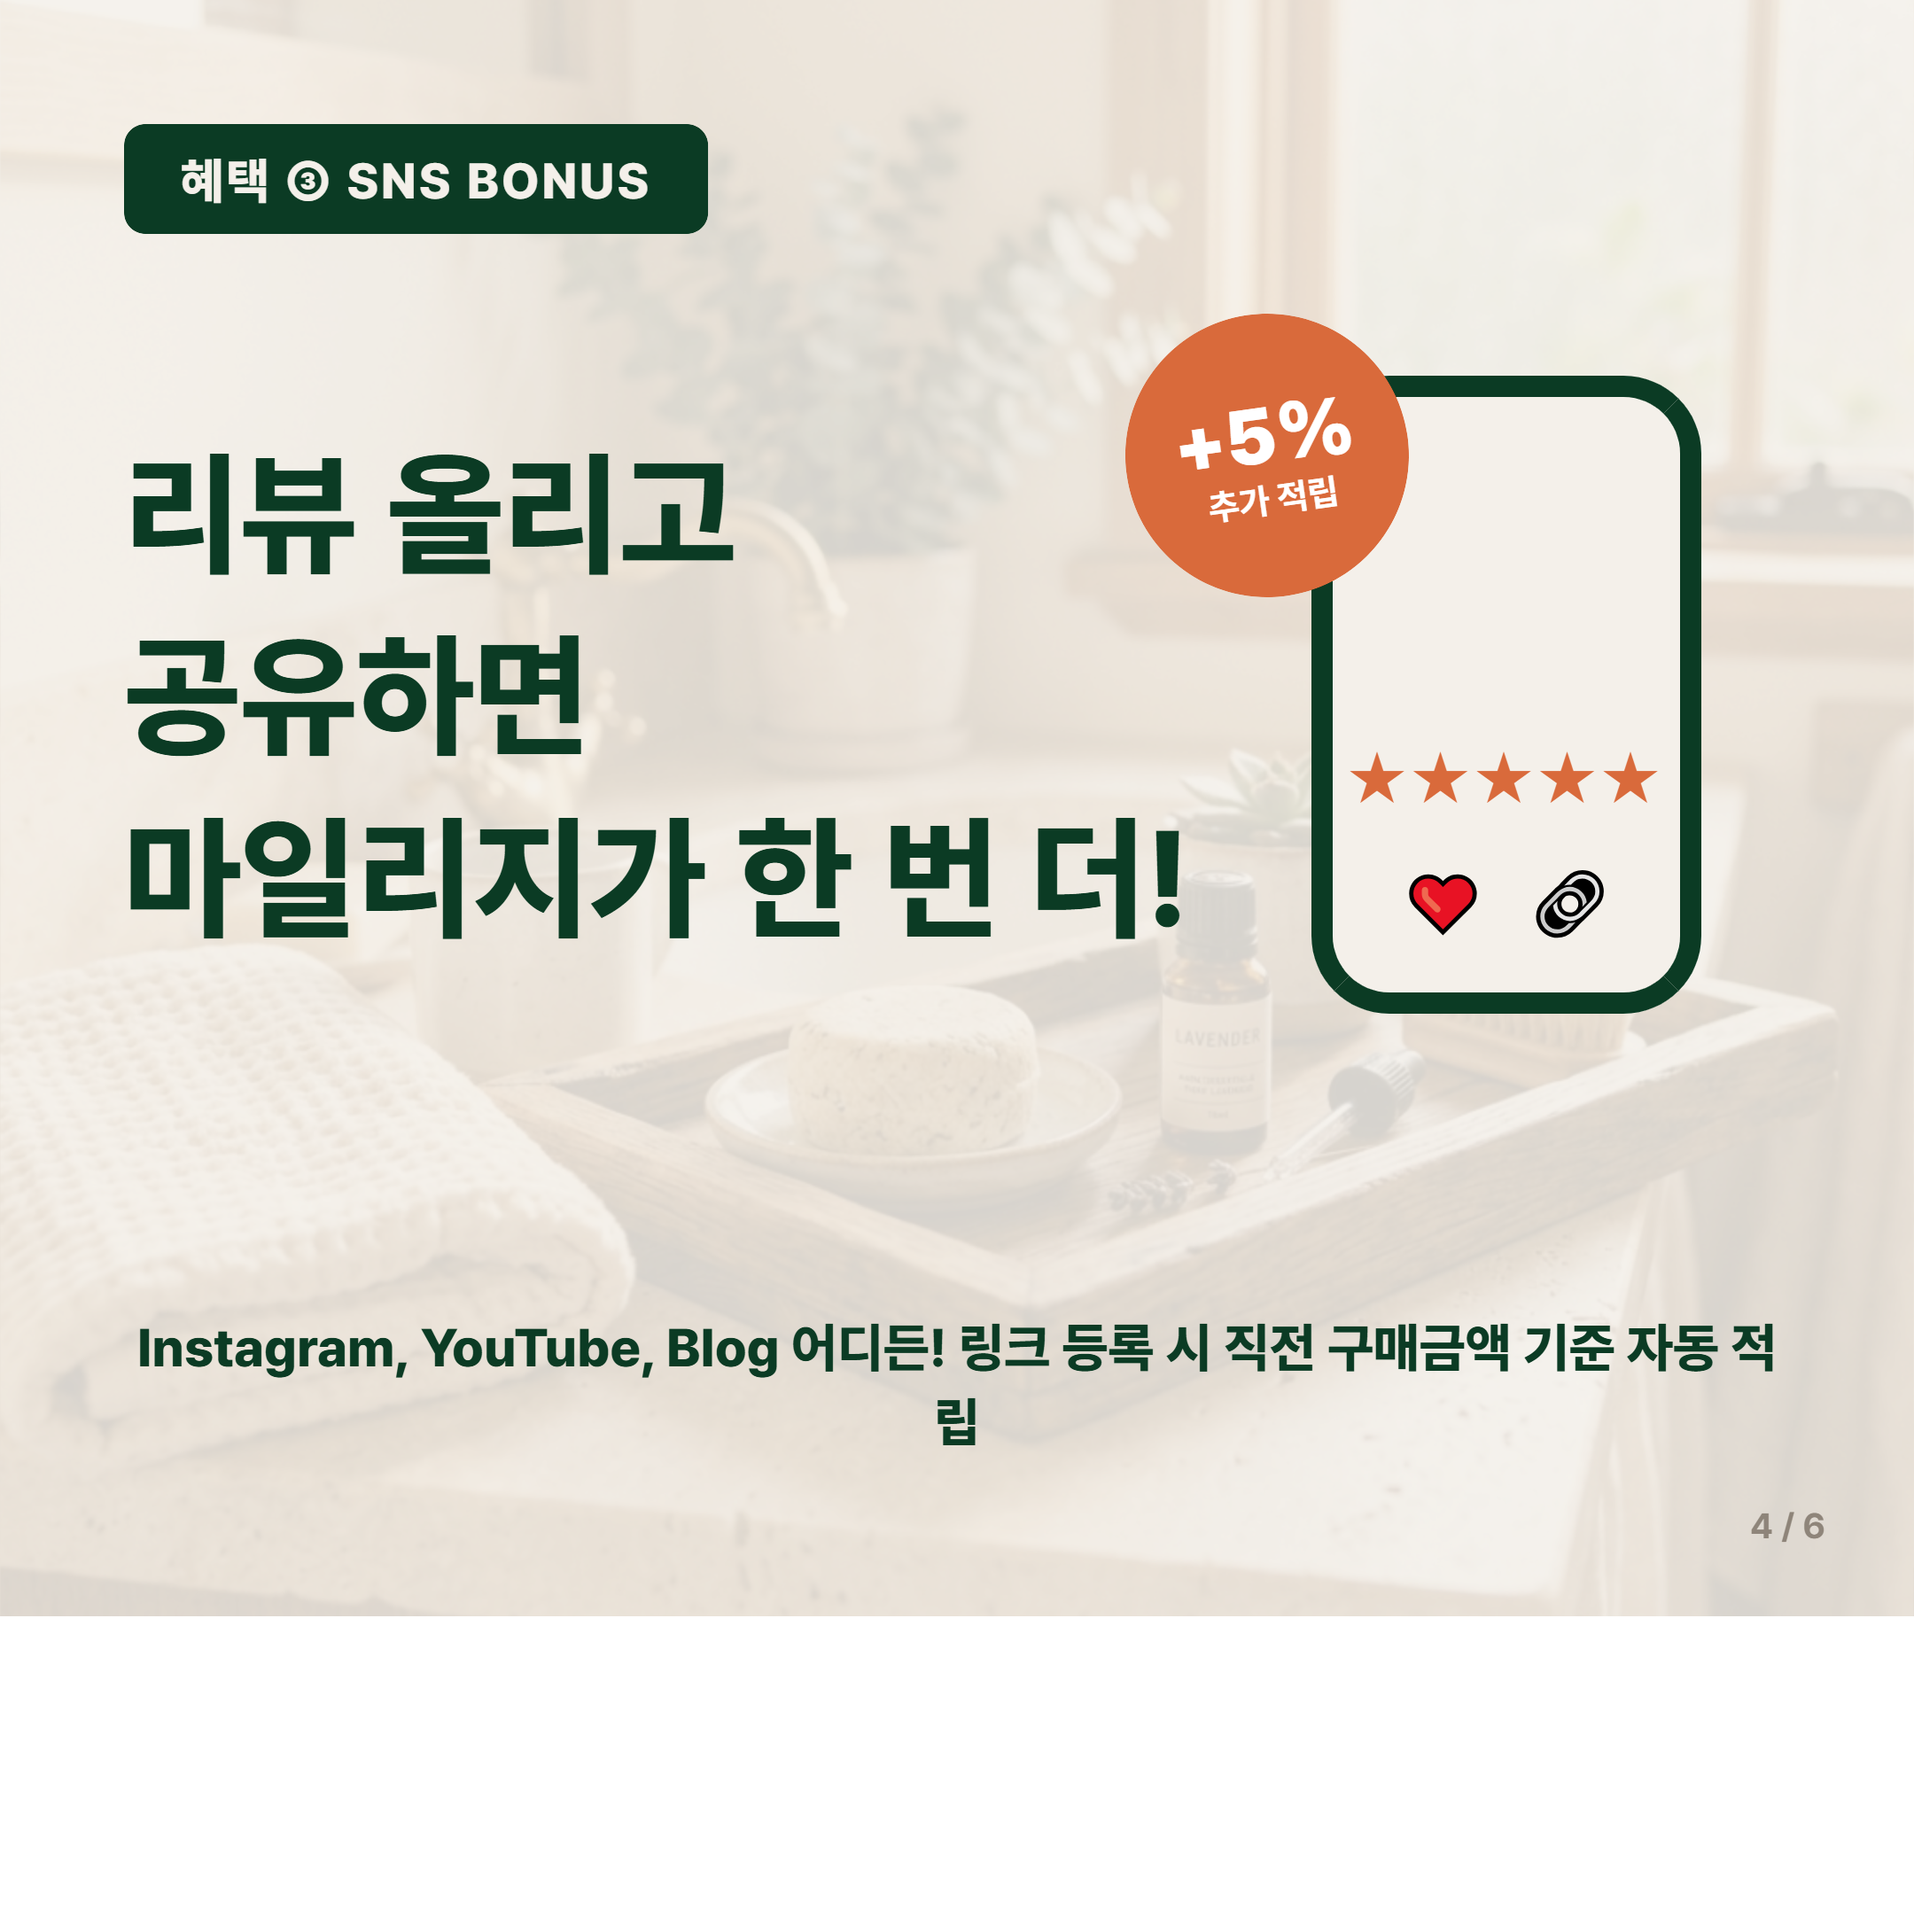
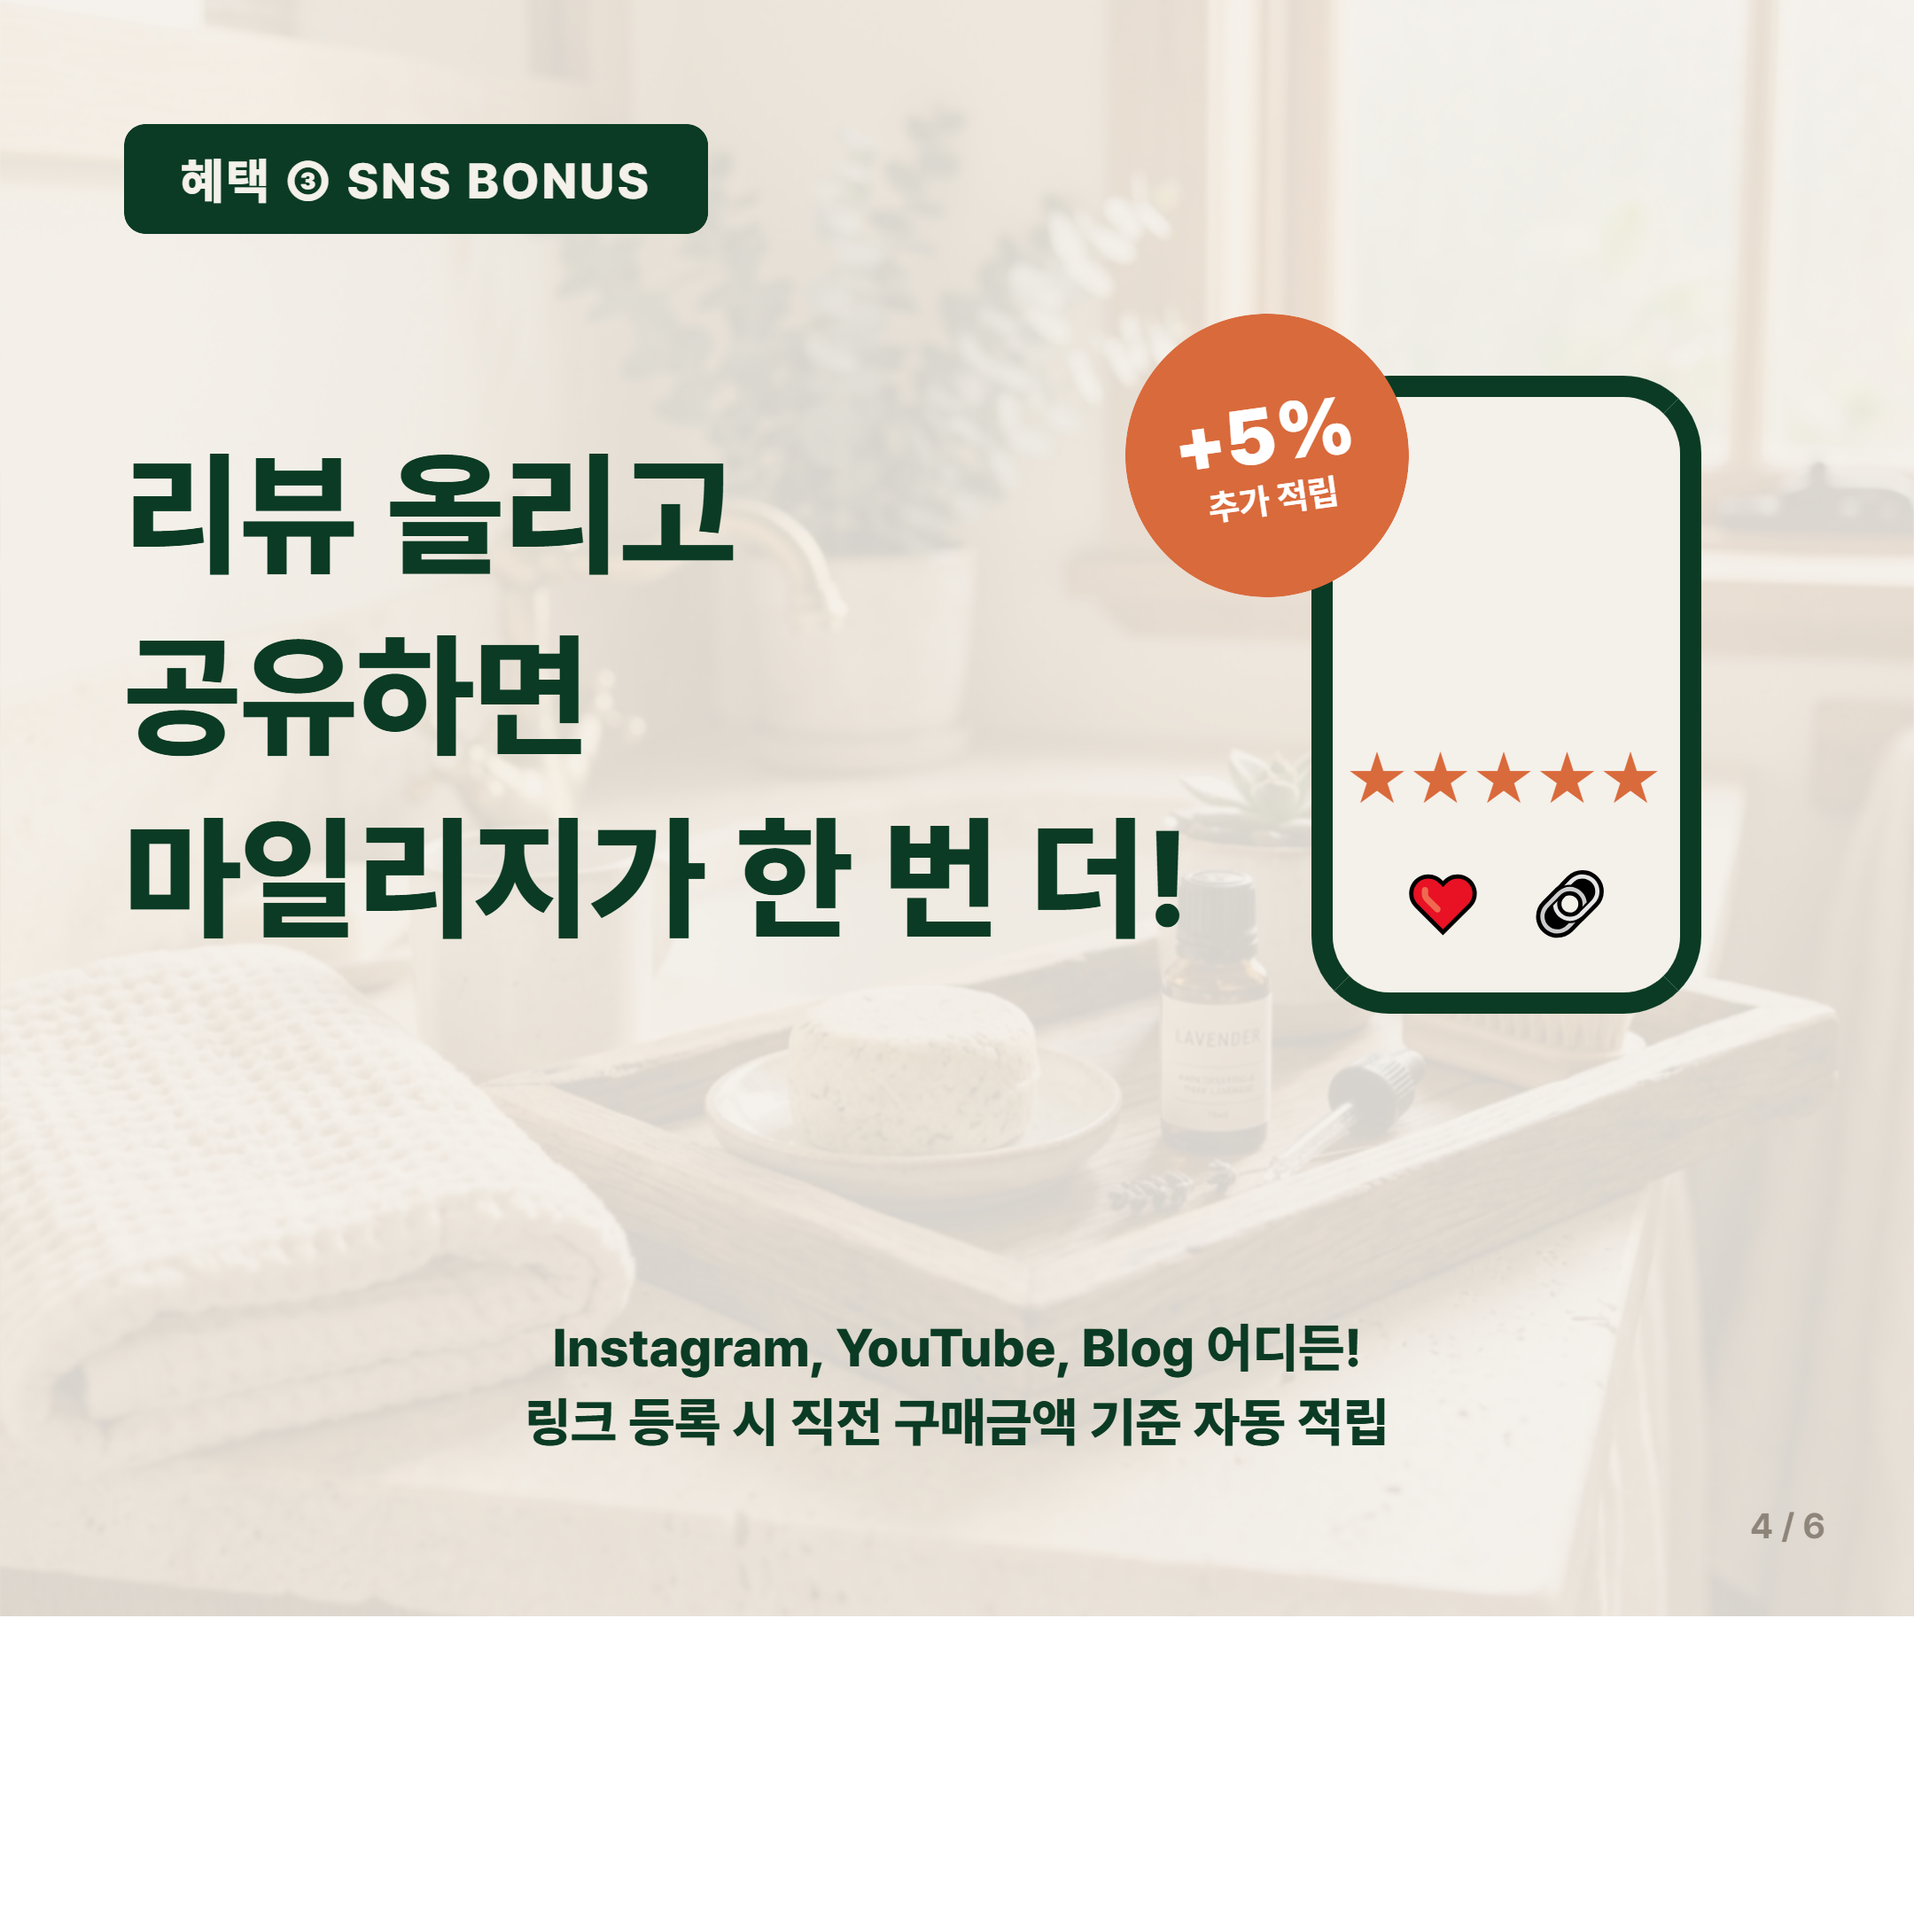
문서

Changed region(s): [[0.062, 0.6824, 0.9306, 0.7755]]

diff --git a/html/cardnews/index.html b/html/cardnews/index.html
@@ -119,7 +119,7 @@
           </div>
         </div>
         <div class="bottom-row width-full">
-          <p class="sns-footer-text">Instagram, YouTube, Blog 어디든! 링크 등록 시 직전 구매금액 기준 자동 적립</p>
+          <p class="sns-footer-text">Instagram, YouTube, Blog 어디든!<br>링크 등록 시 직전 구매금액 기준 자동 적립</p>
         </div>
       </div>
       <div class="slide-number">4 / 6</div>

diff --git a/html/cardnews/style.css b/html/cardnews/style.css
@@ -503,6 +503,7 @@ body.single-slide-mode .slide-card {
   font-weight: 800;
   line-height: 1.4;
   text-align: center;
+  word-break: keep-all;
 }
 
 /* ---------------------------------
